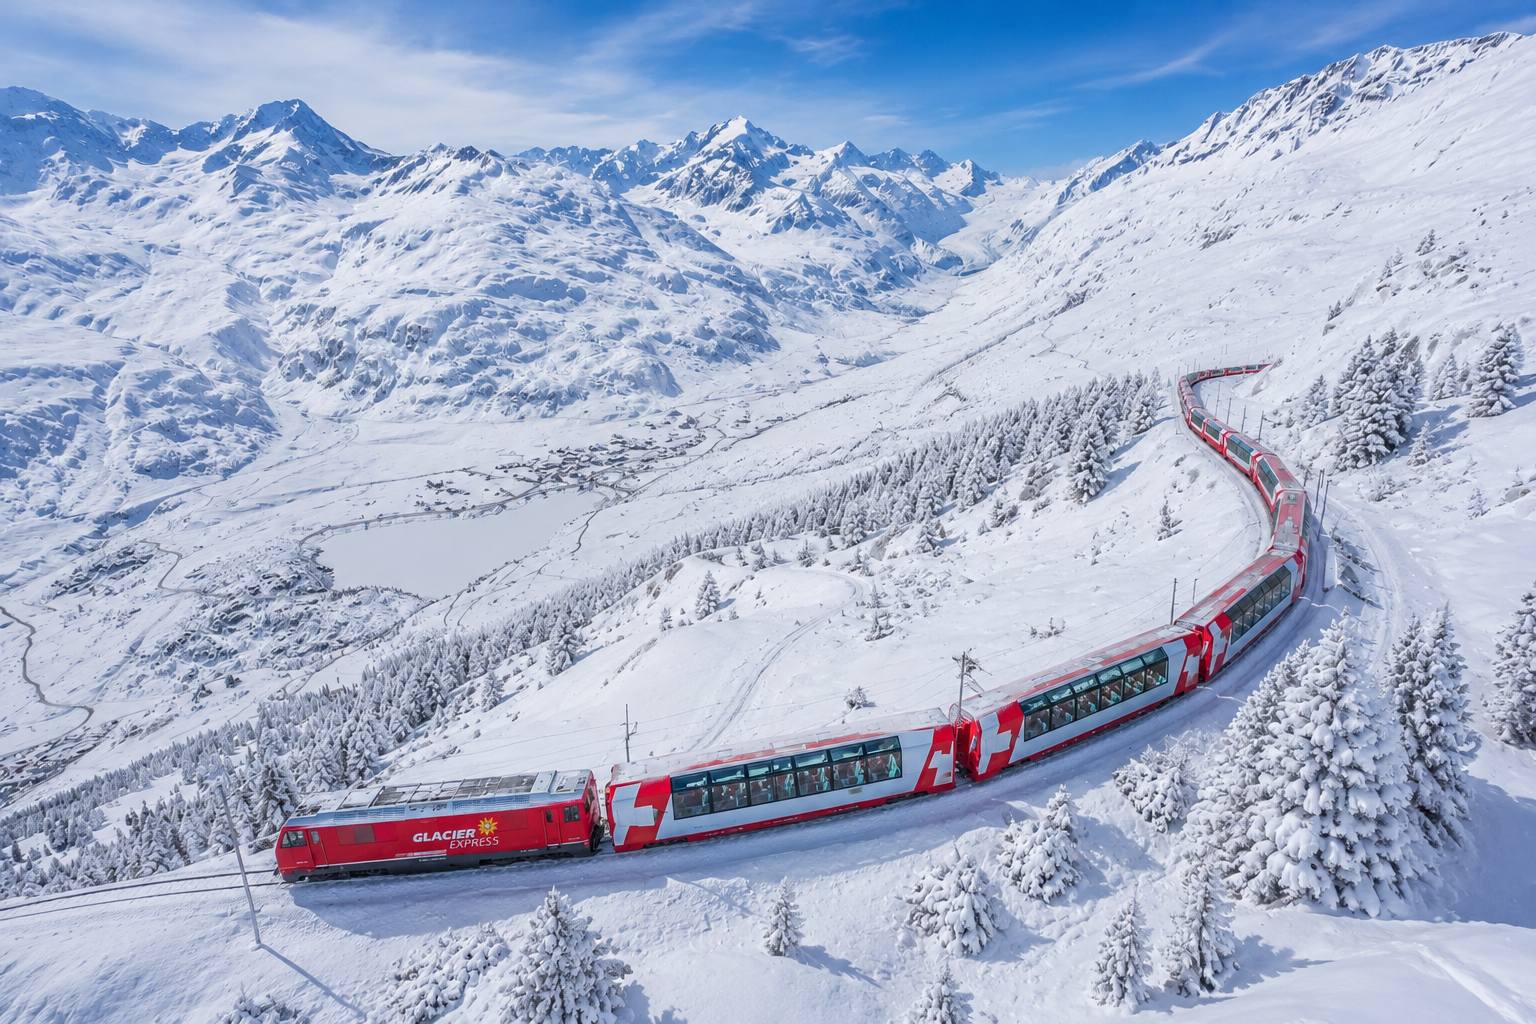
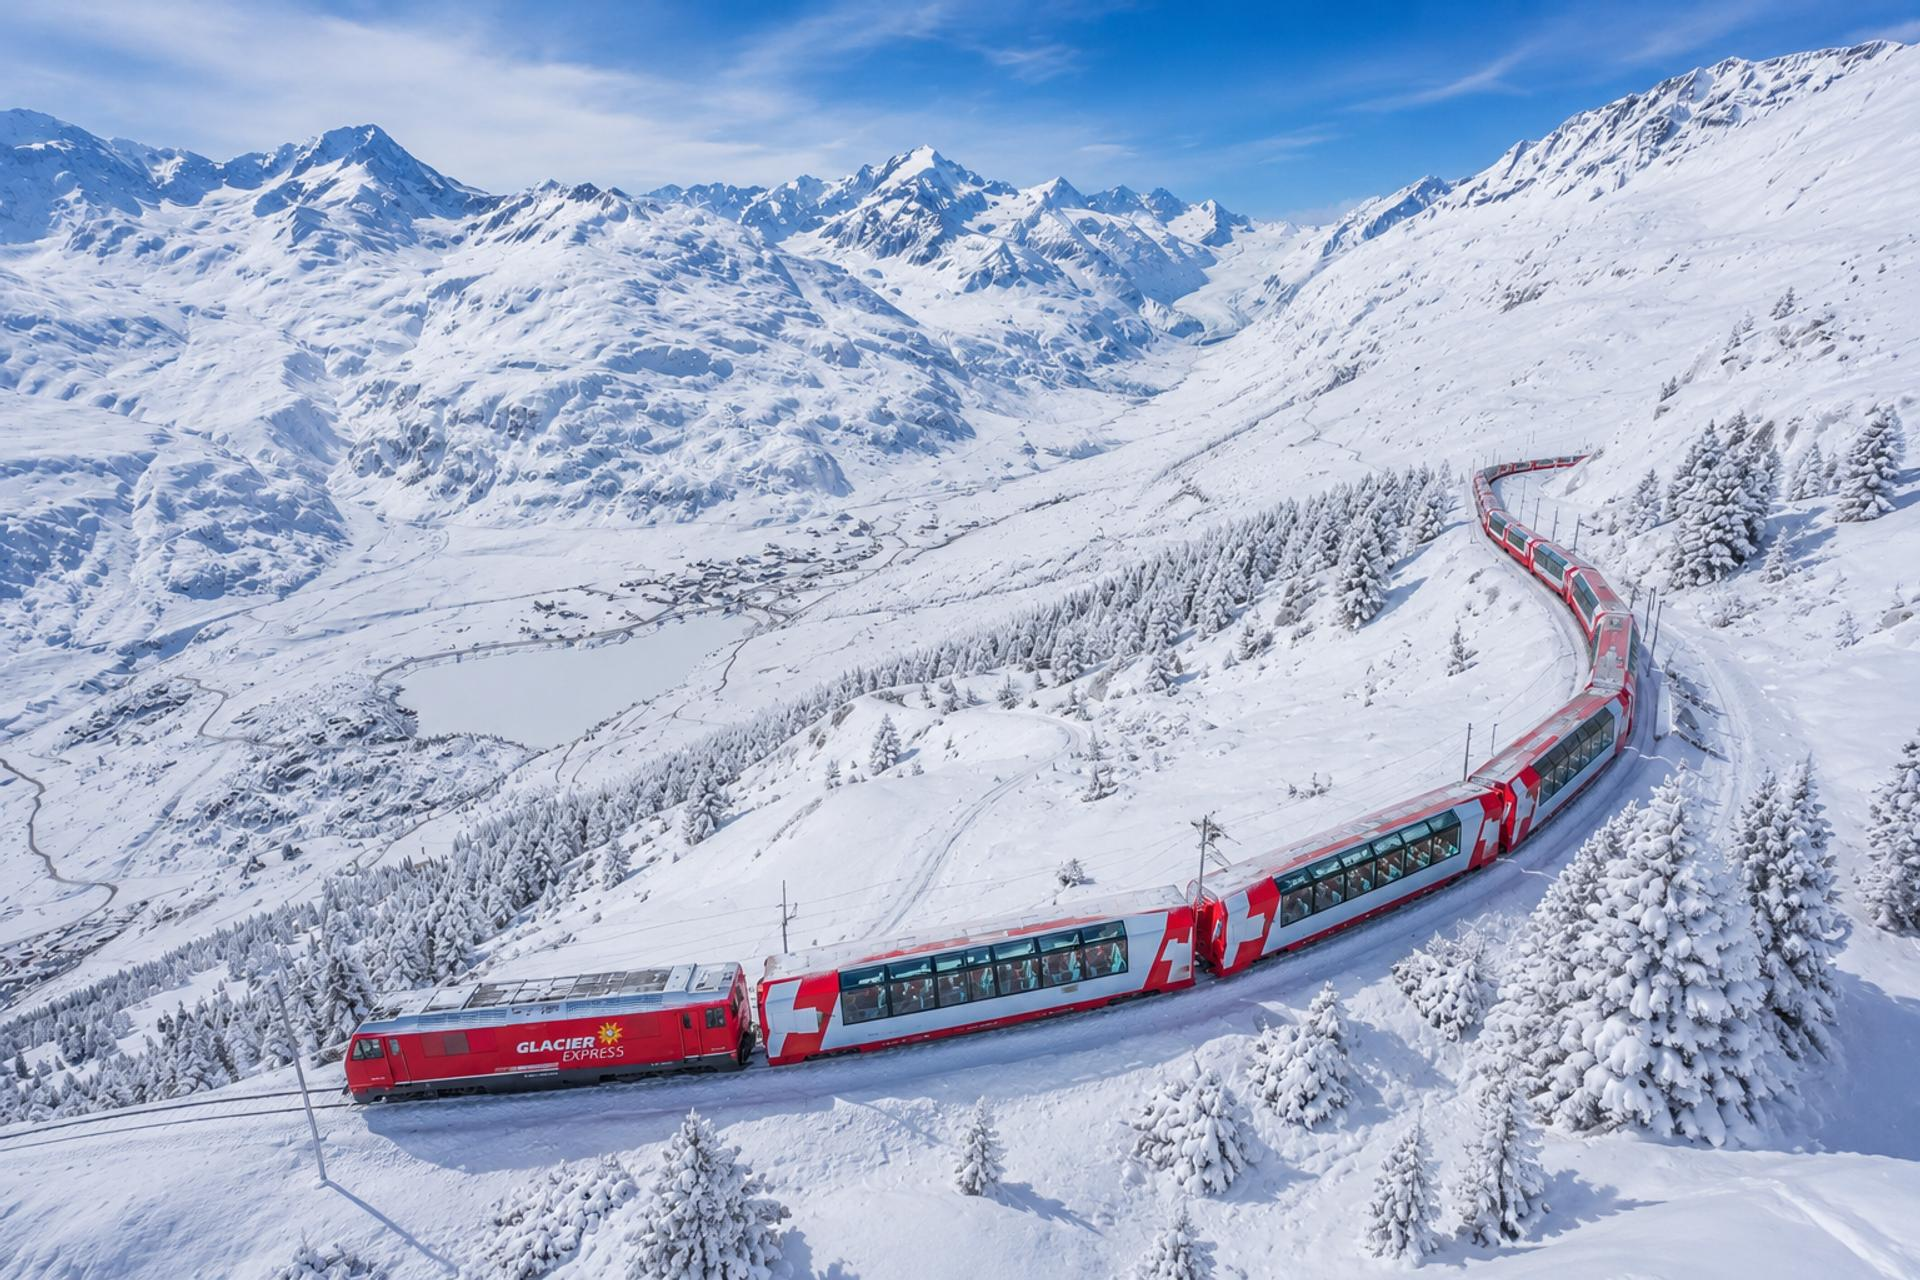
feat: optimize hero section transitions, compress images, simplify CTA button

diff --git a/components/HeroSection.tsx b/components/HeroSection.tsx
@@ -34,6 +34,16 @@ const BG_IMAGES = [
 export default function HeroSection() {
   const [activeTab, setActiveTab] = useState<ServiceTab>("Flights")
   const [bgIndex, setBgIndex] = useState(0)
+  const [firstImageLoaded, setFirstImageLoaded] = useState(false)
+
+  // Preload all hero images on mount so later transitions never hit
+  // an un-cached image (which caused the black flash mid-slideshow).
+  useEffect(() => {
+    BG_IMAGES.forEach(src => {
+      const img = new window.Image()
+      img.src = src
+    })
+  }, [])
 
   useEffect(() => {
     const interval = setInterval(() => {
@@ -50,25 +60,46 @@ export default function HeroSection() {
   return (
     <section
       className="w-full relative"
-      style={{ height: "85vh", minHeight: "648px" }}
+      style={{
+        height: "85vh",
+        minHeight: "648px",
+        // Fallback color only shows before the very first image has
+        // painted. Once loaded, it's removed so it can't flash behind
+        // later slideshow transitions.
+        backgroundColor: firstImageLoaded ? "transparent" : "#1A56F0",
+      }}
       aria-label="Travel search"
     >
-      {/* Background slideshow */}
+      {/* First hero image — real <img> tag, loaded with top priority so
+          it appears as fast as possible on initial page load. */}
+      <img
+        src={BG_IMAGES[0]}
+        alt=""
+        fetchPriority="high"
+        decoding="async"
+        onLoad={() => setFirstImageLoaded(true)}
+        className="absolute inset-0 w-full h-full object-cover z-0"
+        style={{ display: bgIndex === 0 ? "block" : "none" }}
+      />
+
+      {/* Background slideshow (for index > 0, after first paint) */}
       <AnimatePresence>
-        <motion.div
-          key={bgIndex}
-          initial={{ opacity: 0 }}
-          animate={{ opacity: 1 }}
-          exit={{ opacity: 0 }}
-          transition={{ duration: 0.7, ease: "easeInOut" }}
-          className="absolute inset-0 z-0"
-          style={{
-            backgroundImage: `url("${BG_IMAGES[bgIndex]}")`,
-            backgroundSize: "cover",
-            backgroundPosition: "center center",
-            backgroundRepeat: "no-repeat",
-          }}
-        />
+        {bgIndex !== 0 && (
+          <motion.div
+            key={bgIndex}
+            initial={{ opacity: 0 }}
+            animate={{ opacity: 1 }}
+            exit={{ opacity: 0 }}
+            transition={{ duration: 0.7, ease: "easeInOut" }}
+            className="absolute inset-0 z-0"
+            style={{
+              backgroundImage: `url("${BG_IMAGES[bgIndex]}")`,
+              backgroundSize: "cover",
+              backgroundPosition: "center center",
+              backgroundRepeat: "no-repeat",
+            }}
+          />
+        )}
       </AnimatePresence>
 
       {/* Dark overlay */}

diff --git a/components/search/FlightSearch.tsx b/components/search/FlightSearch.tsx
@@ -571,9 +571,9 @@ export default function FlightSearch() {
                   ) : isLast ? (
                     <button
                       onClick={() => setShowModal(true)}
-                      className="w-full flex items-center justify-center gap-2 py-3 rounded-full bg-[#1A56F0] hover:bg-blue-700 text-white text-[13px] font-bold transition-all shadow-[0_4px_20px_rgba(26,86,240,0.4)] hover:scale-[1.02] active:scale-[0.98]"
+                      className="w-full flex items-center justify-center gap-2 py-3 rounded-none bg-[#1A56F0] hover:bg-blue-700 text-white text-[13px] font-bold transition-all shadow-[0_4px_20px_rgba(26,86,240,0.4)] hover:scale-[1.02] active:scale-[0.98]"
                     >
-                      {WA_SVG} Get Best Flight Deals
+                      Unlock Best Deals
                     </button>
                   ) : (
                     /* empty spacer to keep column width */
@@ -623,9 +623,9 @@ export default function FlightSearch() {
           <div className="shrink-0" style={{ width: "calc(100% / 5)" }}>
             <button
               onClick={() => setShowModal(true)}
-              className="w-full flex items-center justify-center gap-2 py-3.5 rounded-full bg-[#1A56F0] hover:bg-blue-700 text-white text-[14px] font-bold transition-all shadow-[0_4px_20px_rgba(26,86,240,0.4)] hover:scale-[1.02] active:scale-[0.98]"
+              className="w-full flex items-center justify-center gap-2 py-3.5 rounded-none bg-[#1A56F0] hover:bg-blue-700 text-white text-[14px] font-bold transition-all shadow-[0_4px_20px_rgba(26,86,240,0.4)] hover:scale-[1.02] active:scale-[0.98]"
             >
-              {WA_SVG} Get Best Flight Deals
+              Unlock Best Deals
             </button>
           </div>
         </div>

diff --git a/components/search/searchUtils.ts b/components/search/searchUtils.ts
@@ -9,7 +9,7 @@ export interface SearchBoxProps {
 }
 // ─── Shared CTA labels ────────────────────────────────────────────────────────
 export const CTA_LABELS: Record<ServiceTab, string> = {
-  Flights:    "Get Best Flight Deals",
+  Flights:    "Unlock Best Deals",
   Hotels:     "Search Hotels",
   Holidays:   "Search Holidays",
   Activities: "Find Activities",
